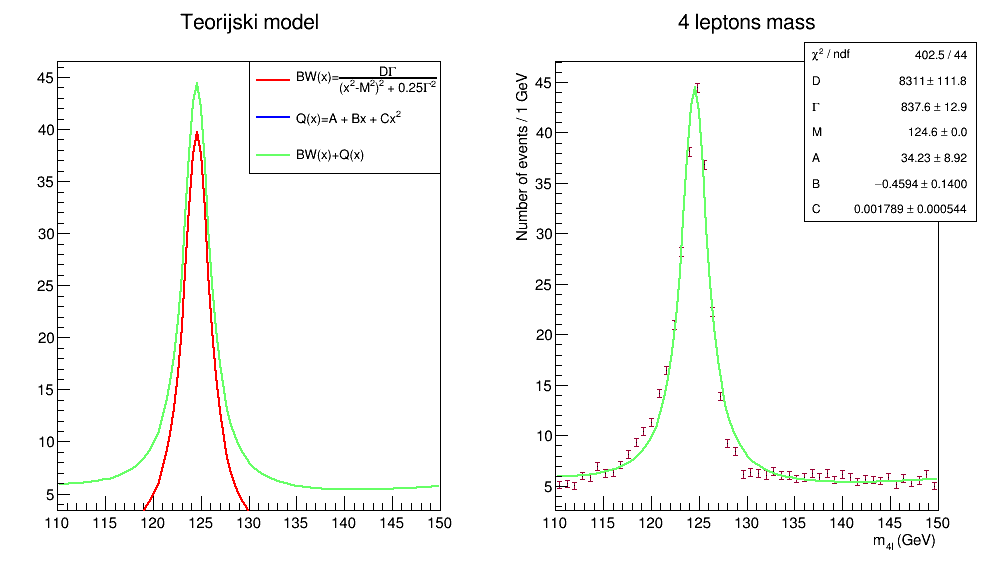
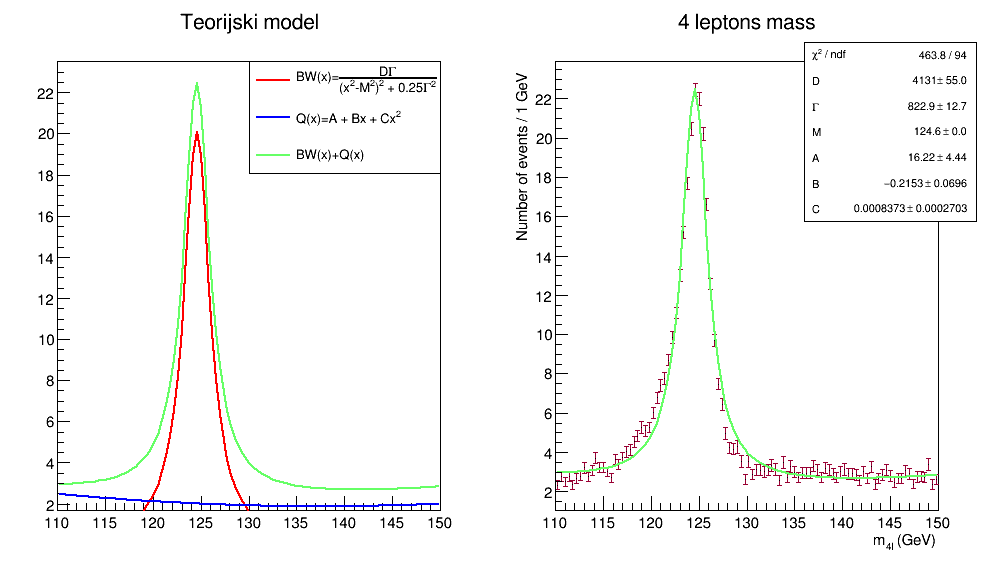
Vjezbe 8 dovrseno

diff --git a/Vjezbe_8/Analyzer.cpp b/Vjezbe_8/Analyzer.cpp
@@ -264,7 +264,7 @@ void Analyzer::PlotHistogram(TString dir_name)
     leg_BDT->Draw();
 
     
-    c->Print("4l-distribucije-"+dir_name+".png");
+    //c->Print("4l-distribucije-"+dir_name+".png"); // VJEZBE 7
 
 
     /****** CRTANJE MASE 4 LEPTONA = HIGGS ******/    
@@ -278,7 +278,7 @@ void Analyzer::PlotHistogram(TString dir_name)
         h_m4l_higgs->SetLineColor(kPink-6);
         h_m4l_higgs->SetFillColor(kPink+2);
         h_m4l_higgs->Draw("hist");
-        c_H->Print("4l-masa-"+dir_name+".png");
+        //c_H->Print("4l-masa-"+dir_name+".png"); // VJEZBE 7
     }
     else if(dir_name == "qqZZ"){
         h_m4l_pozadina->SetTitle("4 leptons mass");
@@ -287,7 +287,7 @@ void Analyzer::PlotHistogram(TString dir_name)
         h_m4l_pozadina->SetLineColor(kBlue+2);
         h_m4l_pozadina->SetFillColor(kAzure-4);
         h_m4l_pozadina->Draw("hist");
-        c_H->Print("4l-masa-"+dir_name+".png");
+        //c_H->Print("4l-masa-"+dir_name+".png"); // VJEZBE 7
     }
     else {cout << "Krivo ime direktorija" << dir_name << endl; return;}
 
@@ -375,31 +375,31 @@ void Analyzer::PlotPublicHistograms()
     f_bw->SetParName(0, "D");
     f_bw->SetParName(1, "#Gamma");
     f_bw->SetParName(2, "M");
-    f_bw->SetParameter("D", 8311.);
-    f_bw->SetParameter("#Gamma", 837.);
+    f_bw->SetParameter("D", 4130.);
+    f_bw->SetParameter("#Gamma", 823.);
     f_bw->SetParameter("M", 124.6);
 
     TF1 *f_sq = new TF1("f_sq", "[0] + [1]*x + [2]*x^2", 110, 150);
     f_sq->SetParName(0, "A");
     f_sq->SetParName(1, "B");
     f_sq->SetParName(2, "C");
-    f_sq->SetParameter("A", 34.);
-    f_sq->SetParameter("B", -0.46);
-    f_sq->SetParameter("C", -0.0018);
+    f_sq->SetParameter("A", 17.);
+    f_sq->SetParameter("B", -0.22);
+    f_sq->SetParameter("C", 0.0008);
 
     TF1 *f_sum = new TF1("f_sum", "[0]*[1]/( (x^2 - [2]^2)^2 + 0.25*[1]^2 )  +  [3] + [4]*x + [5]*x^2", 110, 150);
     f_sum->SetParName(0, "D");
     f_sum->SetParName(1, "#Gamma");
     f_sum->SetParName(2, "M");
-    f_sum->SetParameter("D", 8311.);
-    f_sum->SetParameter("#Gamma", 837.);
+    f_sum->SetParameter("D", 4130.);
+    f_sum->SetParameter("#Gamma", 823.);
     f_sum->SetParameter("M", 124.6);
     f_sum->SetParName(3, "A");
     f_sum->SetParName(4, "B");
     f_sum->SetParName(5, "C");
-    f_sum->SetParameter("A", 34.);
-    f_sum->SetParameter("B", -0.46);
-    f_sum->SetParameter("C", -0.0018);
+    f_sum->SetParameter("A", 16.);
+    f_sum->SetParameter("B", -0.22);
+    f_sum->SetParameter("C", 0.0008);
   
 
     f_bw->SetLineColor(kRed);
@@ -410,6 +410,7 @@ void Analyzer::PlotPublicHistograms()
     f_sum->Draw();
     f_bw->Draw("same");
     f_sq->Draw("same");
+    f_sum->GetYaxis()->SetRangeUser(0., 24.); //nakon crtanja! ne radi
 
     TLegend *leg  = new TLegend(0.5, 0.7, 0.9, 0.9); //koordinate dvaju vrhova
     leg->AddEntry(f_bw, "BW(x)=#frac{D#Gamma}{(x^{2}-M^{2})^{2} + 0.25#Gamma^{2}}", "l");
@@ -421,6 +422,7 @@ void Analyzer::PlotPublicHistograms()
     c1->cd(2);
     h_m4l_higgs->Fit(f_sum);
     gStyle->SetOptFit();
+
 
     c1->SaveAs("4l-masa-higg+pozadina.png");
 
@@ -453,7 +455,7 @@ void Analyzer::PlotPublicHistograms()
     leg2->AddEntry(h_Dkin_bkg, "background", "l");
     leg2->Draw();
 
-    c2->SaveAs("KinDiscriminants.png");
+    //c2->SaveAs("KinDiscriminants.png"); // VJEZBE 7
 
 
 
@@ -494,7 +496,7 @@ void Analyzer::PlotPublicHistograms()
     h_2d_sig->Draw("colz");
 
 
-    c3->SaveAs("2Dhistos.png");
+    //c3->SaveAs("2Dhistos.png"); // VJEZBE 7
 
     delete c1;
     delete c2;

diff --git a/Vjezbe_8/Analyzer.h b/Vjezbe_8/Analyzer.h
@@ -1484,7 +1484,7 @@ Analyzer::Analyzer() : fChain(0)
 
    /* INICIJALIZIRAJ HISTOGRAME */
    h_m4l_pozadina = new TH1F("h_m4l_pozadina", "4l from background", 100, 70., 170.);
-   h_m4l_higgs    = new TH1F("h_m4l_higgs", "4l from Higgs", 100, 70., 170.);
+   h_m4l_higgs    = new TH1F("h_m4l_higgs", "4l from Higgs", 100, 70., 170.); //raspon razlicit u zad1 i zad2
    h_Dkin_sig     = new TH1F("h_Dkin_sig", "kin discriminant for signal events", 50, 0., 1.);
    h_Dkin_bkg     = new TH1F("h_Dkin_bkg", "kin discriminant for background  events", 50, 0., 1.);
    h_2d_sig       = new TH2F("h_2d_sig", "signal", 50, 70., 170.,  50, 0., 1.);

diff --git a/Vjezbe_8/main.cpp b/Vjezbe_8/main.cpp
@@ -6,8 +6,8 @@ int main(){
 
     a->PlotHistogram("ggH125");
     a->PlotHistogram("qqZZ"); //sad sam napunila oba histograma za masu 4l    
-    //a->PlotPublicHistograms(); 
-    a->Model_70_170GeV();
+    //a->PlotPublicHistograms(); //ZADATAK 1
+    a->Model_70_170GeV();    //ZADATAK 2 - pokreni nakon sto promijenis granice za histograme na 70-170
 
     delete a;
  
